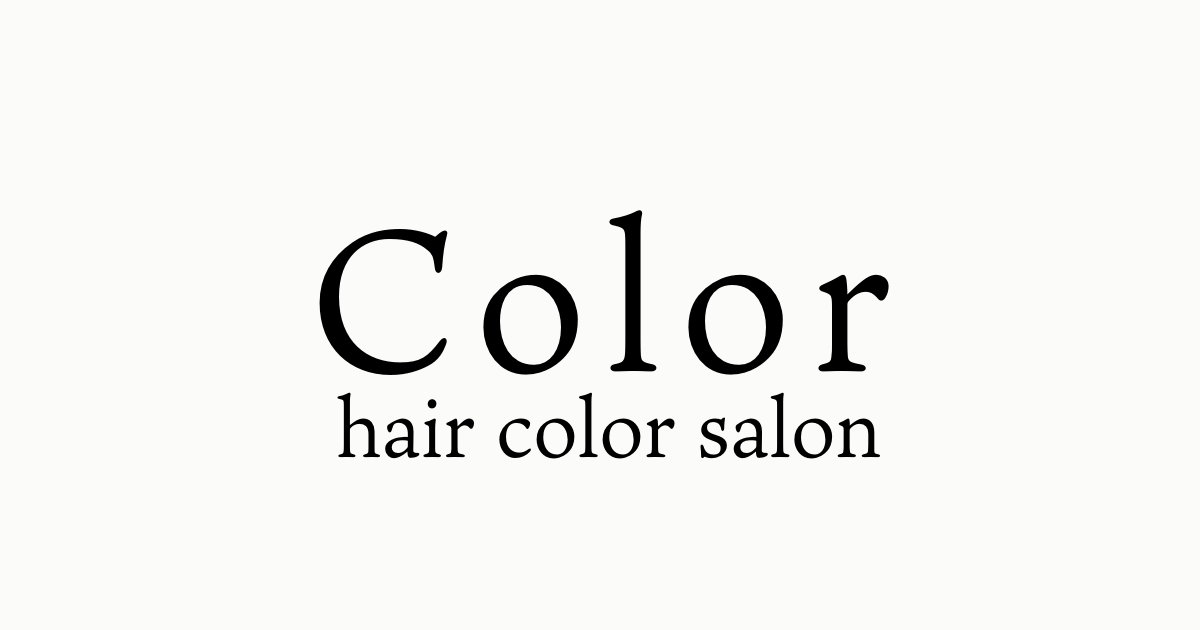
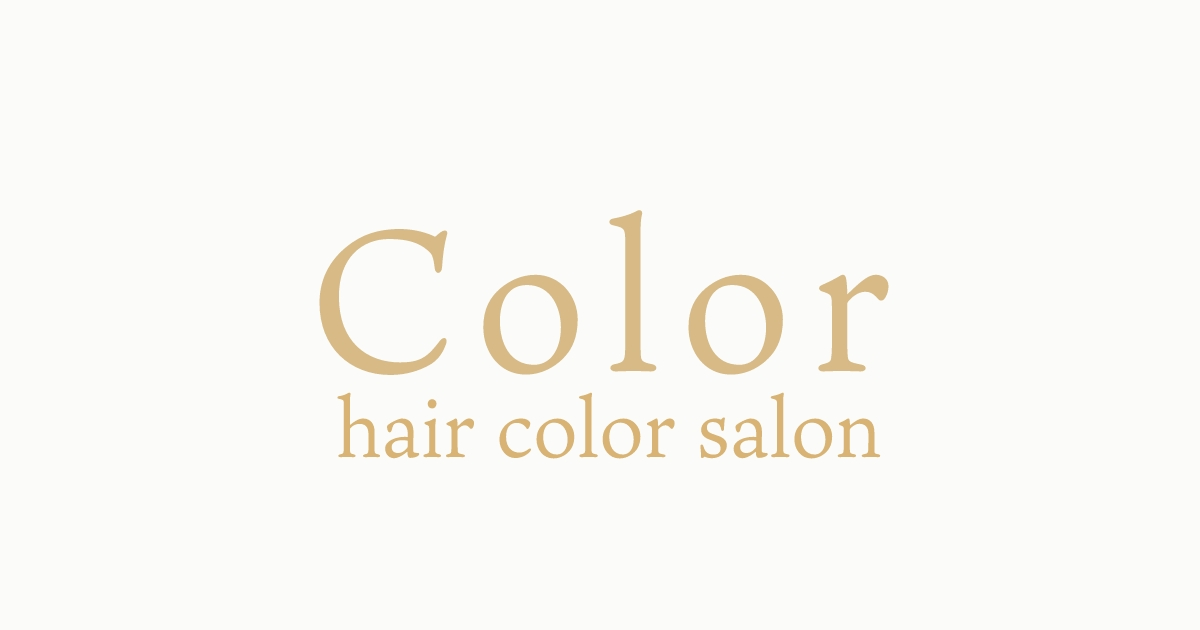
favion追加

Changed region(s): [[0.4008, 0.3317, 0.74, 0.6032], [0.2775, 0.6333, 0.74, 0.7238], [0.2467, 0.3619, 0.37, 0.6032]]

diff --git a/index.html b/index.html
@@ -11,20 +11,28 @@
 
     <meta name="description" content="営業時間am9:00～pm8:00。ヨーロピアン・アンティークサロン！＜マツエクメニュー初回15％OFF＞サロンメニューはもちろん マツエク・ヘッドスパ・ヘアアレンジジなど多彩なメニューも人気の理由！川崎市・南武線沿いで美容室をお探しなら、美容院『momo color』をご利用ください。仕事帰りでも通いやすい平日PM8:00まで営業。武蔵新城駅の目の前のロケーションですので、アクセスも抜群です。溝の口駅や、武蔵小杉駅・武蔵中原駅,などの南武線沿いにお住まいのお客様に幅広くご利用いただいているヘアサロンです。" />
 
+    <link rel="apple-touch-icon" sizes="180x180" href="assets/img/favicon/apple-touch-icon.png">
+    <link rel="icon" type="image/png" sizes="32x32" href="assets/img/favicon/favicon-32x32.png">
+    <link rel="icon" type="image/png" sizes="16x16" href="assets/img/favicon/favicon-16x16.png">
+    <link rel="manifest" href="assets/img/favicon/site.webmanifest">
+    <link rel="mask-icon" href="assets/img/favicon/safari-pinned-tab.svg" color="#d8ba87">
+    <meta name="msapplication-TileColor" content="#ffffff">
+    <meta name="theme-color" content="#ffffff">
+
     <meta property="og:locale" content="ja_JP" />
     <meta property="og:type" content="website" />
     <meta property="og:title" content="Color｜人と人とのつながりを想い、笑顔で溢れ、どこか落ち着くひとときを…" />
     <meta property="og:description" content="営業時間am9:00～pm8:00。ヨーロピアン・アンティークサロン！＜マツエクメニュー初回15％OFF＞サロンメニューはもちろん マツエク・ヘッドスパ・ヘアアレンジジなど多彩なメニューも人気の理由！川崎市・南武線沿いで美容室をお探しなら、美容院『momo color』をご利用ください。仕事帰りでも通いやすい平日PM8:00まで営業。武蔵新城駅の目の前のロケーションですので、アクセスも抜群です。溝の口駅や、武蔵小杉駅・武蔵中原駅,などの南武線沿いにお住まいのお客様に幅広くご利用いただいているヘアサロンです。" />
     <meta property="og:url" content="index.html" />
     <meta property="og:site_name" content="Color｜人と人とのつながりを想い、笑顔で溢れ、どこか落ち着くひとときを…" />
-    <meta property="og:image" content="" />
-    <meta property="og:image:secure_url" content="" />
+    <meta property="og:image" content="https://kai0806.github.io/momo/assets/img/common/OGP.jpg" />
+    <meta property="og:image:secure_url" content="https://kai0806.github.io/momo/assets/img/common/OGP.jpg" />
     <meta property="og:image:width" content="1200" />
     <meta property="og:image:height" content="630" />
     <meta name="twitter:card" content="summary_large_image" />
     <meta name="twitter:description" content="営業時間am9:00～pm8:00。ヨーロピアン・アンティークサロン！＜マツエクメニュー初回15％OFF＞サロンメニューはもちろん マツエク・ヘッドスパ・ヘアアレンジジなど多彩なメニューも人気の理由！川崎市・南武線沿いで美容室をお探しなら、美容院『momo color』をご利用ください。仕事帰りでも通いやすい平日PM8:00まで営業。武蔵新城駅の目の前のロケーションですので、アクセスも抜群です。溝の口駅や、武蔵小杉駅・武蔵中原駅,などの南武線沿いにお住まいのお客様に幅広くご利用いただいているヘアサロンです。" />
     <meta name="twitter:title" content="Color｜人と人とのつながりを想い、笑顔で溢れ、どこか落ち着くひとときを…" />
-    <meta name="twitter:image" content="" />
+    <meta name="twitter:image" content="https://kai0806.github.io/momo/assets/img/common/OGP.jpg" />
 </head>
 <body ontouchstart="">
     <header class="sp_flex">

diff --git a/color_style/index.html b/color_style/index.html
@@ -11,6 +11,14 @@
 
     <meta name="description" content="営業時間am9:00～pm8:00。ヨーロピアン・アンティークサロン！＜マツエクメニュー初回15％OFF＞サロンメニューはもちろん マツエク・ヘッドスパ・ヘアアレンジジなど多彩なメニューも人気の理由！川崎市・南武線沿いで美容室をお探しなら、美容院『momo color』をご利用ください。仕事帰りでも通いやすい平日PM8:00まで営業。武蔵新城駅の目の前のロケーションですので、アクセスも抜群です。溝の口駅や、武蔵小杉駅・武蔵中原駅,などの南武線沿いにお住まいのお客様に幅広くご利用いただいているヘアサロンです。" />
 
+    <link rel="apple-touch-icon" sizes="180x180" href="../assets/img/favicon/apple-touch-icon.png">
+    <link rel="icon" type="image/png" sizes="32x32" href="../assets/img/favicon/favicon-32x32.png">
+    <link rel="icon" type="image/png" sizes="16x16" href="../assets/img/favicon/favicon-16x16.png">
+    <link rel="manifest" href="../assets/img/favicon/site.webmanifest">
+    <link rel="mask-icon" href="../assets/img/favicon/safari-pinned-tab.svg" color="#d8ba87">
+    <meta name="msapplication-TileColor" content="#ffffff">
+    <meta name="theme-color" content="#ffffff">
+
     <meta property="og:locale" content="ja_JP" />
     <meta property="og:type" content="website" />
     <meta property="og:title" content="カラースタイル｜Color｜人と人とのつながりを想い、笑顔で溢れ、どこか落ち着くひとときを…" />

diff --git a/concept/index.html b/concept/index.html
@@ -11,6 +11,14 @@
 
     <meta name="description" content="営業時間am9:00～pm8:00。ヨーロピアン・アンティークサロン！＜マツエクメニュー初回15％OFF＞サロンメニューはもちろん マツエク・ヘッドスパ・ヘアアレンジジなど多彩なメニューも人気の理由！川崎市・南武線沿いで美容室をお探しなら、美容院『momo color』をご利用ください。仕事帰りでも通いやすい平日PM8:00まで営業。武蔵新城駅の目の前のロケーションですので、アクセスも抜群です。溝の口駅や、武蔵小杉駅・武蔵中原駅,などの南武線沿いにお住まいのお客様に幅広くご利用いただいているヘアサロンです。" />
 
+    <link rel="apple-touch-icon" sizes="180x180" href="../assets/img/favicon/apple-touch-icon.png">
+    <link rel="icon" type="image/png" sizes="32x32" href="../assets/img/favicon/favicon-32x32.png">
+    <link rel="icon" type="image/png" sizes="16x16" href="../assets/img/favicon/favicon-16x16.png">
+    <link rel="manifest" href="../assets/img/favicon/site.webmanifest">
+    <link rel="mask-icon" href="../assets/img/favicon/safari-pinned-tab.svg" color="#d8ba87">
+    <meta name="msapplication-TileColor" content="#ffffff">
+    <meta name="theme-color" content="#ffffff">
+
     <meta property="og:locale" content="ja_JP" />
     <meta property="og:type" content="website" />
     <meta property="og:title" content="コンセプト｜Color｜人と人とのつながりを想い、笑顔で溢れ、どこか落ち着くひとときを…" />

diff --git a/information/index.html b/information/index.html
@@ -11,6 +11,14 @@
 
     <meta name="description" content="営業時間am9:00～pm8:00。ヨーロピアン・アンティークサロン！＜マツエクメニュー初回15％OFF＞サロンメニューはもちろん マツエク・ヘッドスパ・ヘアアレンジジなど多彩なメニューも人気の理由！川崎市・南武線沿いで美容室をお探しなら、美容院『momo color』をご利用ください。仕事帰りでも通いやすい平日PM8:00まで営業。武蔵新城駅の目の前のロケーションですので、アクセスも抜群です。溝の口駅や、武蔵小杉駅・武蔵中原駅,などの南武線沿いにお住まいのお客様に幅広くご利用いただいているヘアサロンです。" />
 
+    <link rel="apple-touch-icon" sizes="180x180" href="../assets/img/favicon/apple-touch-icon.png">
+    <link rel="icon" type="image/png" sizes="32x32" href="../assets/img/favicon/favicon-32x32.png">
+    <link rel="icon" type="image/png" sizes="16x16" href="../assets/img/favicon/favicon-16x16.png">
+    <link rel="manifest" href="../assets/img/favicon/site.webmanifest">
+    <link rel="mask-icon" href="../assets/img/favicon/safari-pinned-tab.svg" color="#d8ba87">
+    <meta name="msapplication-TileColor" content="#ffffff">
+    <meta name="theme-color" content="#ffffff">
+
     <meta property="og:locale" content="ja_JP" />
     <meta property="og:type" content="website" />
     <meta property="og:title" content="店舗情報｜Color｜人と人とのつながりを想い、笑顔で溢れ、どこか落ち着くひとときを…" />

diff --git a/menu/index.html b/menu/index.html
@@ -11,6 +11,14 @@
 
     <meta name="description" content="営業時間am9:00～pm8:00。ヨーロピアン・アンティークサロン！＜マツエクメニュー初回15％OFF＞サロンメニューはもちろん マツエク・ヘッドスパ・ヘアアレンジジなど多彩なメニューも人気の理由！川崎市・南武線沿いで美容室をお探しなら、美容院『momo color』をご利用ください。仕事帰りでも通いやすい平日PM8:00まで営業。武蔵新城駅の目の前のロケーションですので、アクセスも抜群です。溝の口駅や、武蔵小杉駅・武蔵中原駅,などの南武線沿いにお住まいのお客様に幅広くご利用いただいているヘアサロンです。" />
 
+    <link rel="apple-touch-icon" sizes="180x180" href="../assets/img/favicon/apple-touch-icon.png">
+    <link rel="icon" type="image/png" sizes="32x32" href="../assets/img/favicon/favicon-32x32.png">
+    <link rel="icon" type="image/png" sizes="16x16" href="../assets/img/favicon/favicon-16x16.png">
+    <link rel="manifest" href="../assets/img/favicon/site.webmanifest">
+    <link rel="mask-icon" href="../assets/img/favicon/safari-pinned-tab.svg" color="#d8ba87">
+    <meta name="msapplication-TileColor" content="#ffffff">
+    <meta name="theme-color" content="#ffffff">
+
     <meta property="og:locale" content="ja_JP" />
     <meta property="og:type" content="website" />
     <meta property="og:title" content="メニュー｜Color｜人と人とのつながりを想い、笑顔で溢れ、どこか落ち着くひとときを…" />
